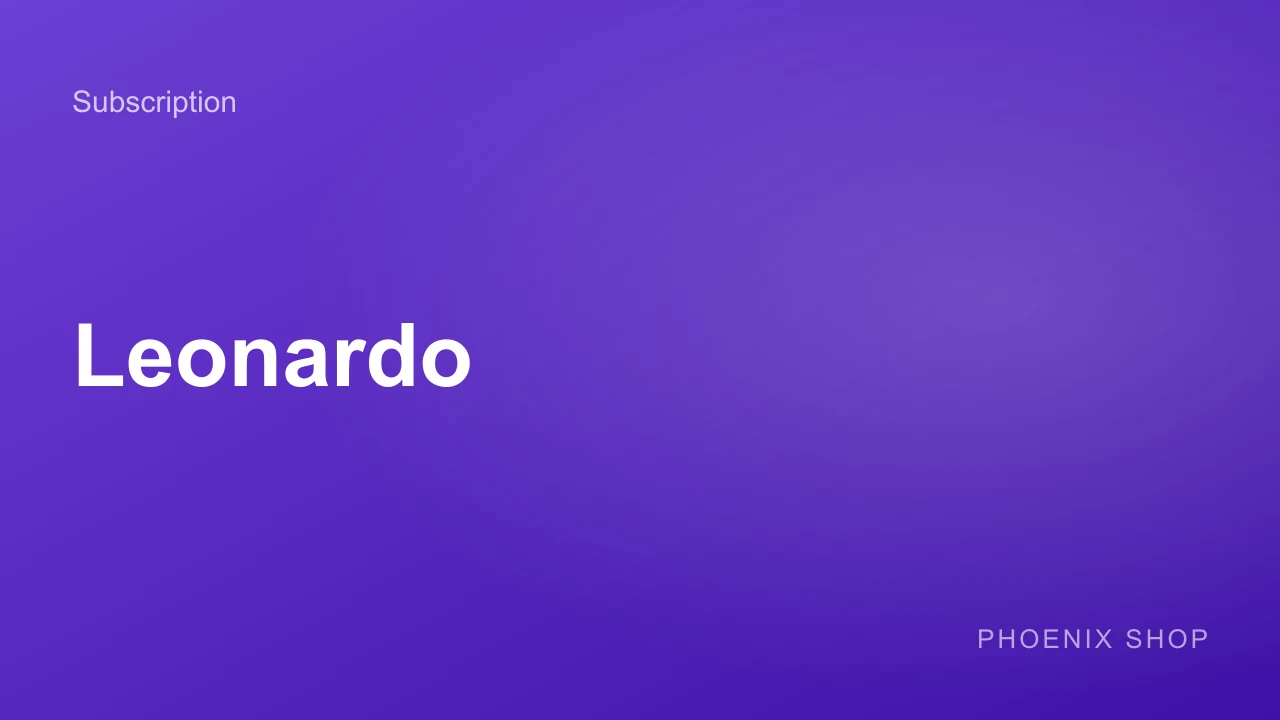
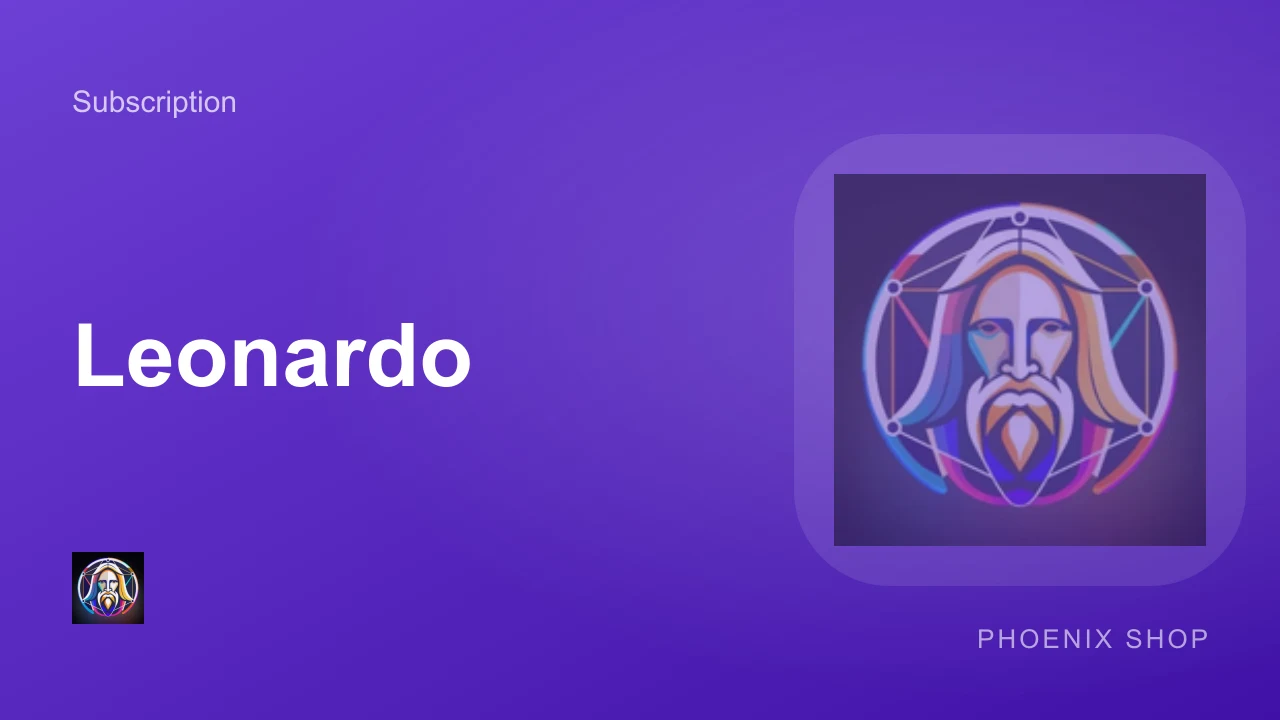
ایمیل سرِ تسویه پرسیده میشود، نه در صفحهی محصول
⚠ ترتیب برعکس بود.

هرکسی که وارد صفحهی محصول میشد، پیش از هر کاری با یک کادرِ
ایمیل روبهرو بود و دکمهی «افزودن به سبد» قفل میماند. یعنی
گرفتنِ ایمیل پیش از آنکه کاربر تصمیم گرفته باشد بخرد — و کسی که
هنوز دارد نگاه میکند، جای پر کردنِ فرم صفحه را میبندد.

حالا محصول اول در سبد مینشیند و سرِ تسویه — جایی که تصمیم گرفته
شده — اطلاعات پرسیده میشود. کاربرِ واردشده استثناست: برای او
کادر یک فیلدِ ازپیشپر است نه یک مانع، پس همانجا میماند.

صفحهی محصول ساکت نمیماند: محصولی که ایمیل لازم دارد همانجا
یک جمله میگوید، وگرنه سرِ تسویه غافلگیری میشود.

سرِ تسویه هر ورودیِ جامانده پرسیده میشود و شرطِ پرداخت است.
کلیدش ترکیبِ خطِ سبد و نامِ ورودی است، چون یک نفر ممکن است دو
اشتراک بخرد و بخواهد هرکدام روی ایمیلِ دیگری فعال شود.

⚠ هفت نشانِ رسمیِ تازه.

لئوناردو، نانوبنانا، کرسر، دولینگو و تلگرام از فایلهایی که
کارفرما فرستاد. نانوبنانای بازکشیده حذف شد چون نسخهی رسمی رسید،
و همینطور claude-mark که جایش را به توتیای خودِ کلاد داده بود.

نشانِ کرسر با نامِ برند در یک فایل بود؛ کاشی مربع است پس فقط
مکعب بریده شد — نامِ برند در خودِ سایت متنِ زنده است.

هفده کارتِ محصول دوباره ساخته شد.

Changed region(s): [[0.625, 0.2444, 0.9688, 0.7639], [0.0312, 0.7639, 0.125, 0.8861]]

diff --git a/src/components/checkout/CheckoutFlow.tsx b/src/components/checkout/CheckoutFlow.tsx
@@ -5,7 +5,7 @@ import Link from 'next/link';
 import { AlertCircle, Check, Eye, EyeOff, Lock, ShoppingBag } from 'lucide-react';
 import { useCart } from '../../app/providers';
 import {
-  nameOk, phoneOk, saveAccount,
+  nameOk, phoneOk, emailOk, saveAccount,
 } from '../../lib/account';
 import { newOrderCode, saveOrder, scheduleFulfilment, type Order } from '../../lib/orders';
 import { Loader } from '../ui/Loader';
@@ -49,6 +49,28 @@ export function CheckoutFlow() {
   const [code, setCode] = useState<string | null>(null);
 
   const [step, setStep] = useState<Step>('form');
+
+  /* ⚠ ورودیهایی که در صفحهی محصول پرسیده نشدند.
+
+     صفحهی محصول فقط از کاربرِ واردشده ایمیل میخواهد؛ بقیه بدونِ
+     پر کردنِ فرم محصول را در سبد میگذارند. پس اینجا — جایی که
+     تصمیم گرفته شده — هرچه جا مانده پرسیده میشود.
+
+     کلید ترکیبِ خطِ سبد و نامِ ورودی است، چون یک نفر ممکن است دو
+     اشتراک بخرد و بخواهد هرکدام روی ایمیلِ دیگری فعال شود. */
+  const [extra, setExtra] = useState<Record<string, string>>({});
+  const need = useMemo(
+    () => lines.flatMap((l) =>
+      l.product.requiredInputs
+        .filter((i) => !l.inputs[i.key]?.trim())
+        .map((i) => ({ line: l, input: i, key: `${l.key}:${i.key}` }))),
+    [lines],
+  );
+  const needOk = need.every(({ key, input }) => {
+    const v = (extra[key] ?? '').trim();
+    if (!v) return false;
+    return input.type !== 'email' || emailOk(v);
+  });
   const [phone, setPhone] = useState('');
   const [name, setName] = useState('');
   const [password, setPassword] = useState('');
@@ -80,7 +102,7 @@ export function CheckoutFlow() {
         variantLabel: l.variant.label,
         quantity: l.quantity,
         price: l.variant.price,
-        inputs: l.inputs,
+        inputs: withExtra(l),
         deliveryEstimate: l.product.deliveryEstimate,
       })),
     };
@@ -118,7 +140,19 @@ export function CheckoutFlow() {
   const okPhone = phoneOk(phone);
   const okName = nameOk(name);
   const okPass = password.length >= 6;
-  const canPay = okPhone && okName && okPass;
+  /* ورودیهای جامانده هم شرطِ پرداختاند: بدونشان معلوم نیست
+     اشتراک را روی کدام حساب فعال کنیم. */
+  /** ورودیهای خط، بهعلاوهی آنچه سرِ تسویه پر شد */
+  const withExtra = (l: (typeof lines)[number]) => {
+    const out = { ...l.inputs };
+    for (const i of l.product.requiredInputs) {
+      const v = extra[`${l.key}:${i.key}`];
+      if (v?.trim()) out[i.key] = v.trim();
+    }
+    return out;
+  };
+
+  const canPay = okPhone && okName && okPass && needOk;
 
   if (count === 0 && step !== 'done') {
     return (
@@ -263,8 +297,8 @@ export function CheckoutFlow() {
             <section className="co__card">
               <h2>اطلاعات تحویل</h2>
               <p className="co__lead">
-                دو فیلد، و تمام. کد پیگیری به موبایلت پیامک میشود؛ ایمیلی که
-                اشتراک روی آن فعال میشود را قبلاً در صفحهی خودِ محصول دادهای.
+                کد پیگیری به موبایلت پیامک میشود. اگر قبلاً حساب داشتهای،
+                با همین شماره واردت میکنیم.
               </p>
 
               <div className="co__fields">
@@ -338,6 +372,44 @@ export function CheckoutFlow() {
                 با همین شماره و رمز بعداً وارد میشوی. اگر رمزت را فراموش کردی،
                 از <Link href="/login">صفحهی ورود</Link> با کد پیامکی وارد شو.
               </p>
+
+              {/* ⚠ ورودیهای لازم، اینجا نه در صفحهی محصول.
+
+                  کسی که هنوز دارد نگاه میکند نباید با کادرِ ایمیل
+                  روبهرو شود؛ کسی که تا اینجا آمده تصمیمش را
+                  گرفته و پر کردنش برایش هزینه نیست. */}
+              {need.length > 0 && (
+                <div className="co__need">
+                  <span className="co__review-h">برای فعالسازی لازم است</span>
+                  <div className="co__fields">
+                    {need.map(({ line, input, key }) => {
+                      const v = extra[key] ?? '';
+                      const bad = v.length > 0 && input.type === 'email' && !emailOk(v);
+                      return (
+                        <label key={key} className="pdp-input">
+                          <span>
+                            {input.label}
+                            {lines.length > 1 && (
+                              <em className="co__need-of"> — {line.product.title}</em>
+                            )}
+                          </span>
+                          <input
+                            type={input.type === 'email' ? 'email' : input.type === 'number' ? 'number' : 'text'}
+                            autoComplete={input.type === 'email' ? 'email' : undefined}
+                            dir={input.type === 'text' ? undefined : 'ltr'}
+                            placeholder={input.example}
+                            value={v}
+                            onChange={(e) => setExtra((o) => ({ ...o, [key]: e.target.value }))}
+                            aria-invalid={bad}
+                          />
+                          {bad && <em className="co__err">ایمیل درست نیست.</em>}
+                          {!bad && input.hint && <small>{input.hint}</small>}
+                        </label>
+                      );
+                    })}
+                  </div>
+                </div>
+              )}
 
               {/* ---------- بازبینی، همینجا ----------
 
@@ -422,7 +494,7 @@ export function CheckoutFlow() {
                       items: lines.map((l) => ({
                         id: Number(l.variant.id),
                         qty: l.quantity,
-                        inputs: l.inputs,
+                        inputs: withExtra(l),
                       })),
                     });
                     /* پرداخت روی خودِ ووکامرس انجام میشود، پس هر

diff --git a/src/data/catalog.ts b/src/data/catalog.ts
@@ -410,7 +410,7 @@ const SUBSCRIPTIONS: Product[] = [
       { id: 'cursor-proplus-1m', label: 'Pro+ — یک ماهه', price: 4_900_000, stock: 6, guide: { fit: 'وقتی Pro وسط ماه تمام میشود.', detail: 'همان امکانات با سقف چند برابری. مالِ کسی است که تماموقت با ادیتور کار میکند و ماه گذشته به محدودیت خورده.' } },
       { id: 'cursor-ultra-1m', label: 'Ultra — یک ماهه', price: 9_800_000, stock: 3, guide: { fit: 'برای کار سنگین و تیمی.', detail: 'بالاترین سقف، بدون نگرانی از تمام شدنِ درخواستها. اگر روزانه ساعتها با مدلهای بزرگ کار میکنی یا کدبیسِ بزرگی داری، این پلن برای همان ساخته شده.' } },
     ],
-    media: { thumbnail: '/products/cursor-pro-card.webp', cover: '/products/cursor-pro.webp', accent: '#a855f7' },
+    media: { thumbnail: '/products/cursor-pro-card.webp', logo: '/brand/logos/cursor.png', cover: '/products/cursor-pro.webp', accent: '#a855f7' },
     shortDescription: 'اکانت آماده، تحویل فوری',
     description:
       'کرسر یک ویرایشگر کد است که مدل زبانی را مثل همتیمی داخل خودش دارد. نسخهی رایگان سقف درخواست دارد و همان جایی تمام میشود که تازه داری روی یک باگ سخت جلو میروی.\n\nنسخهی پرو سقف تکمیلهای هوشمند را برمیدارد، به مدلهای قویتر وصل میشود و حالت عامل را میدهد که میتواند چند فایل را با هم بخواند و تغییر بدهد. برای پروژههای بزرگ، همین خواندنِ همزمانِ چند فایل تفاوت اصلی است.\n\nاین محصول از انبار تحویل میشود، پس بلافاصله بعد از پرداخت اطلاعات دستت است. گارانتی تمام دوره دارد و اگر حساب وسط راه مشکلی پیدا کرد، جایگزینش میکنیم.',
@@ -560,7 +560,7 @@ const SUBSCRIPTIONS: Product[] = [
       { id: 'tg-6m', label: 'شش ماهه', price: 3625000, stock: null, guide: { fit: 'تعادلِ قیمت و مدت.', detail: 'همان امکانات، شش ماه، با هزینهی ماهانهی کمتر از سهماهه.' } },
       { id: 'tg-12m', label: 'یک ساله', price: 6506000, stock: null, guide: { fit: 'ارزانترین حالت به ازای هر ماه.', detail: 'یک سال کامل. اگر تلگرام را روزانه استفاده میکنی، این پلن کمترین هزینهی ماهانه را دارد.' } },
     ],
-    media: { thumbnail: '/products/telegram-premium-card.webp', cover: '/products/telegram-premium-card.webp', accent: '#2aabee' },
+    media: { thumbnail: '/products/telegram-premium-card.webp', logo: '/brand/logos/telegram.svg', cover: '/products/telegram-premium-card.webp', accent: '#2aabee' },
     shortDescription: 'فعالسازی خودکار روی یوزرنیمت',
     description:
       'تلگرام پریمیوم بیشتر از یک تیک است. سقف فایل دو برابر میشود، دانلود بدون محدودیت سرعت انجام میگیرد، و میتوانی تا هزار کانال و بیست پوشه داشته باشی — چیزی که برای کسی که با تلگرام کار میکند تفاوت روزمره است.\n\nبهعلاوه استیکر و ایموجی متحرک اختصاصی، ترجمهی کامل چت، تبدیل صوت به متن، پروفایل ویدیویی، و امکان مخفی کردن تبلیغات کانالها. حساب هم یک نشان میگیرد که در گروهها بالاتر دیده میشود.\n\nفعالسازی مستقیم روی یوزرنیم خودت انجام میشود — نه رمز میخواهیم نه کد ورود. فقط یوزرنیم را میدهی و اشتراک روی همان حساب مینشیند.',
@@ -599,7 +599,7 @@ const SUBSCRIPTIONS: Product[] = [
     variants: [
       { id: 'duolingo-5m', label: 'پنج ماهه', price: 837000, stock: null, isDefault: true, guide: { fit: 'پنج ماه، بدون تبلیغ و با اشتباه نامحدود.', detail: 'درسها بدون وقفهی تبلیغاتی پیش میروند و اگر اشتباه کنی روزت از دست نمیرود. برای کسی که میخواهد زنجیرهاش را نگه دارد، همین دو مورد بیشترین فرق را میسازد.' } },
     ],
-    media: { thumbnail: '/products/duolingo-super-card.webp', cover: '/products/duolingo-super.webp', accent: '#58cc02' },
+    media: { thumbnail: '/products/duolingo-super-card.webp', logo: '/brand/logos/duolingo.svg', cover: '/products/duolingo-super.webp', accent: '#58cc02' },
     shortDescription: 'یادگیری زبان بدون تبلیغات',
     description:
       'نسخهی رایگان دولینگو با جان کار میکند: پنج اشتباه که کردی، درس قطع میشود و باید منتظر بمانی. برای کسی که جدی دنبال زبان است، همین وقفهها بزرگترین دلیل رها کردناند.\n\nسوپر جانها را نامحدود میکند، تبلیغها را برمیدارد، تمرین اشتباهات شخصیسازیشده میدهد و اجازه میدهد درسها را آفلاین ذخیره کنی. آزمون تعیین سطح و تمرین بینهایت هم باز میشود.\n\nروی همان حسابی فعال میشود که تا حالا با آن پیش رفتهای، پس پیشرفت و زنجیرهی روزهایت دستنخورده میماند. اگر روی چند دستگاه استفاده میکنی، همهجا همزمان فعال است.',

diff --git a/src/components/product/ProductView.tsx b/src/components/product/ProductView.tsx
@@ -2,6 +2,7 @@
 
 import React, { useEffect, useState } from 'react';
 import Link from 'next/link';
+import { getAccount } from '../../lib/account';
 import { ArrowLeft, ChevronLeft, Check, Clock, Columns2, ShieldCheck, Sparkles } from 'lucide-react';
 import {
   CATEGORIES, PRODUCTS, getProductsByCategory, type Product, type Variant,
@@ -127,7 +128,27 @@ export function ProductView({ product: p }: { product: Product }) {
     (v.usd ? tomanFromUsd(v.usd, rate) : (livePrices[v.id]?.price ?? v.price));
   const price = priceOf(variant);
 
-  const missing = p.requiredInputs.filter((i) => !inputs[i.key]?.trim());
+  /* ⚠ ورودیهای لازم فقط از کاربرِ واردشده پرسیده میشوند.
+
+     تا حالا هرکسی که وارد صفحهی محصول میشد، پیش از هر کاری با
+     یک کادرِ ایمیل روبهرو بود و دکمهی «افزودن به سبد» قفل
+     میماند. این یعنی گرفتنِ ایمیل پیش از آنکه کاربر تصمیم گرفته
+     باشد بخرد — و کسی که هنوز دارد نگاه میکند، جای پر کردنِ فرم
+     صفحه را میبندد.
+
+     حالا ترتیب برعکس است: اول محصول در سبد مینشیند، بعد سرِ
+     تسویه — جایی که تصمیم گرفته شده — اطلاعات پرسیده میشود.
+
+     کاربرِ واردشده استثناست: او همانجا ایمیلش را میبیند و اگر
+     خواست عوضش میکند، چون برایش یک کادرِ ازپیشپر است نه یک
+     مانع. */
+  const [signedIn, setSignedIn] = React.useState(false);
+  React.useEffect(() => { setSignedIn(getAccount() !== null); }, []);
+
+  const askInputs = signedIn && p.requiredInputs.length > 0;
+  const missing = askInputs
+    ? p.requiredInputs.filter((i) => !inputs[i.key]?.trim())
+    : [];
   const canAdd = missing.length === 0;
 
   const onAdd = (e: React.MouseEvent<HTMLButtonElement>) => {
@@ -236,7 +257,7 @@ export function ProductView({ product: p }: { product: Product }) {
             </div>
 
             {/* ورودیهای لازم — ایمیل، آیدی بازی و مانند اینها */}
-            {p.requiredInputs.length > 0 && (
+            {askInputs && (
               <div className="pdp-inputs">
                 {p.requiredInputs.map((i) => (
                   <label key={i.key} className="pdp-input">
@@ -253,6 +274,19 @@ export function ProductView({ product: p }: { product: Product }) {
                   </label>
                 ))}
               </div>
+            )}
+
+            {/* کاربرِ واردنشده بهجای فرم یک جمله میبیند.
+
+                نگفتنش هم بد بود: محصولی که ایمیل لازم دارد باید
+                همینجا معلوم کند، وگرنه سرِ تسویه غافلگیری
+                میشود. */}
+            {!signedIn && p.requiredInputs.length > 0 && (
+              <p className="pdp-later">
+                {p.requiredInputs.some((i) => i.type === 'email')
+                  ? 'ایمیلِ فعالسازی را سرِ تسویه میپرسیم.'
+                  : 'اطلاعاتِ لازم را سرِ تسویه میپرسیم.'}
+              </p>
             )}
 
             {/* ردیفِ نرخ — فقط وقتی محصول دلاری است.

diff --git a/src/data/heroSlides.ts b/src/data/heroSlides.ts
@@ -80,7 +80,7 @@ export const HERO_SLIDES: HeroSlideData[] = [
       tiles: [
         { id: 'midjourney', bg: '#ffffff', logo: 'midjourney.svg' },
         { id: 'higgsfield', bg: '#ffffff', logo: 'higgsfield.svg' },
-        { id: 'nano-banana', bg: '#ffffff', logo: 'nano-banana.svg' },
+        { id: 'nano-banana', bg: '#ffffff', logo: 'nano-banana.png' },
         { id: 'firefly', bg: '#ffffff', logo: 'firefly.svg' },
       ],
     },
@@ -194,7 +194,7 @@ export const HERO_SLIDES: HeroSlideData[] = [
       tiles: [
         { id: 'claude', bg: '#ffffff', logo: 'claude-burst.svg' },
         { id: 'gemini', bg: '#ffffff', logo: 'gemini.svg' },
-        { id: 'cursor', bg: '#17171a' },
+        { id: 'cursor', bg: '#ffffff', logo: 'cursor.png' },
         { id: 'openai', bg: '#ffffff', logo: 'openai.svg' },
       ],
     },
@@ -299,7 +299,7 @@ export const HERO_SLIDES: HeroSlideData[] = [
       tiles: [
         { id: 'spotify', bg: '#ffffff', logo: 'spotify.svg' },
         { id: 'youtube', bg: '#ffffff', logo: 'youtube.png' },
-        { id: 'telegram', bg: '#229ed9' },
+        { id: 'telegram', bg: '#ffffff', logo: 'telegram.svg' },
         { id: 'discord', bg: '#ffffff', logo: 'discord.svg' },
       ],
     },
@@ -360,7 +360,7 @@ export const HERO_SLIDES: HeroSlideData[] = [
       label: ['Virtual', 'Numbers'],
       tiles: [
         { id: 'whatsapp', bg: '#25d366' },
-        { id: 'telegram', bg: '#229ed9' },
+        { id: 'telegram', bg: '#ffffff', logo: 'telegram.svg' },
         { id: 'openai', bg: '#ffffff', logo: 'openai.svg' },
         { id: 'x', bg: '#17171a' },
       ],

diff --git a/src/data/aiLatest.ts b/src/data/aiLatest.ts
@@ -227,6 +227,7 @@ export const AI_TOOLS: AiTool[] = [
     purpose: 'visual',
     lead: 'برای کارِ تکراری ساخته شده: یک سبک را قفل میکنی و دهها تصویر با همان حالوهوا میگیری.',
     does: ['تصویر با سبکِ ثابت', 'مدلِ اختصاصیِ خودت', 'ویرایش داخل بوم'],
+    logo: 'leonardo.png',
     tint: '#7c3aed',
     fresh: true,
     uses: [
@@ -243,7 +244,7 @@ export const AI_TOOLS: AiTool[] = [
     purpose: 'visual',
     lead: 'ویرایشگرِ تصویرِ جمنای؛ با یک جمله عکس را عوض میکنی، بیآنکه بقیهاش به هم بریزد.',
     does: ['ویرایش با یک جمله', 'حفظ چهره در چند تصویر', 'ترکیب چند عکس'],
-    logo: 'nano-banana.svg',
+    logo: 'nano-banana.png',
     tint: '#f5d920',
     fresh: true,
     uses: [

diff --git a/src/components/cart/cart.css b/src/components/cart/cart.css
@@ -369,3 +369,17 @@
   .cop__node.is-current .cop__dot::after { animation: none; opacity: 0.5; }
   .cop__fill { transition: none; }
 }
+
+/* ورودیهای لازم سرِ تسویه — نه در صفحهی محصول.
+
+   کسی که هنوز دارد نگاه میکند نباید با کادرِ ایمیل روبهرو شود؛
+   کسی که تا اینجا آمده تصمیمش را گرفته. */
+.co__need {
+  padding: var(--sp-5);
+  border: 1px solid var(--brand-line, var(--line));
+  border-radius: var(--r-md);
+  background: var(--blue-wash);
+  margin-bottom: var(--sp-5);
+}
+.co__need .co__review-h { display: block; margin-bottom: var(--sp-3); }
+.co__need-of { font-style: normal; color: var(--ink-faint); font-weight: 400; }

diff --git a/src/components/product/product.css b/src/components/product/product.css
@@ -2345,3 +2345,15 @@
   .usdp__plan { flex-direction: column; align-items: stretch; gap: var(--sp-2); }
   .usdp__plan-price { text-align: start; display: flex; align-items: baseline; gap: var(--sp-2); }
 }
+
+/* جملهی جایگزینِ فرم برای کاربرِ واردنشده.
+
+   محصولی که ایمیل لازم دارد باید همینجا معلوم کند، وگرنه سرِ
+   تسویه غافلگیری میشود. */
+.pdp-later {
+  font-size: var(--text-xs);
+  color: var(--ink-faint);
+  padding: var(--sp-3) var(--sp-4);
+  border: 1px dashed var(--line);
+  border-radius: var(--r-md);
+}
